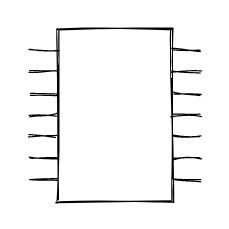
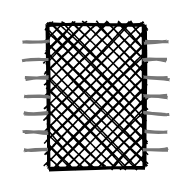
Increase component drawing visibility

diff --git a/public/index.js b/public/index.js
@@ -5,12 +5,14 @@ class IntegratedCircuit extends LitElement {
       connected: { type: Boolean },
       width: { type: Number },
       height: { type: Number },
+      rasterized: { type: Boolean },
     }
   }
   constructor() {
     super();
     this.connected = false;
     this.width = this.height = 192;
+    this.rasterized = false;
   }
   async request() {
     return new Port(await navigator.usb.requestDevice({ filters: [
@@ -76,23 +78,35 @@ class IntegratedCircuit extends LitElement {
     }
   }
   firstUpdated() {
-    this.drawComponent(this.shadowRoot.getElementById('svg'), this.width, this.height);
+    this.drawComponent(this.shadowRoot.getElementById('component'), this.width, this.height);
   }
-  drawComponent(svg, w, h) {
-    [...svg.children].map(child => child.remove());
-    let rs = rough.svg(svg);
-    console.log(rs);
-    svg.appendChild(rs.rectangle(w/4, h/8, w/2, 6*h/8));
+  drawComponent(component, w, h) {
+    let rs = rough[this.rasterized ? 'canvas' : 'svg'](component, { options: {
+      strokeWidth: 3,
+      roughness: 1,
+    }});
+    let parts = [];
+    if (this.rasterized) {
+      component.getContext('2d').clearRect(0, 0, w, h);
+    } else {
+      [...component.children].map(child => child.remove());   
+    }
+    parts.push(rs.rectangle(w/4, h/8, w/2, 6*h/8, {
+      fill: 'black',
+      fillStyle: 'cross-hatch',
+      hachureGap: 8,
+      hachureAngle: 45,
+    }));
     for (let i = 0; i < 7; i++) {
       let y = h/8 + (i+1)*3*w/(4*8);
-      svg.appendChild(rs.line(w/8, y, w/4, y)); // x1, y1, x2, y2
-      svg.appendChild(rs.line(3*h/4, y, 7*h/8, y)); // x1, y1, x2, y2  
-
+      parts.push(rs.line(w/8, y, w/4, y, { stroke: '#777' })); // x1, y1, x2, y2
+      parts.push(rs.line(3*h/4, y, 7*h/8, y, { stroke: '#777' })); // x1, y1, x2, y2  
     }
+    this.rasterized || parts.map(part => component.appendChild(part))  
   }
   static get styles() {
     return css`
-      svg {
+      #component {
         display: block;
         margin: auto;
       }
@@ -103,7 +117,11 @@ class IntegratedCircuit extends LitElement {
       <wired-button @click=${this.test}>Test</wired-button>
       <wired-button @click=${this.toggle}>${this.connected ? "Disconnect" : "Connect"}</wired-button>
       <p>Component</p>
-      <svg width=${this.width} height=${this.height} id="svg"></svg>
+      ${this.rasterized ? 
+        html`<canvas width=${this.width} height=${this.height} id="component"></canvas>` :
+        html`<svg width=${this.width} height=${this.height} id="component"></svg>`
+      }
+      
     `;
   }
 }

diff --git a/public/index.html b/public/index.html
@@ -16,9 +16,10 @@
   <body>
     <h1>Plug in a Nand Gate to Test</h1>
     <integrated-circuit
+      rasterized
       code="4011"
-      height="192"
-      width="192"
+      height="512"
+      width="512"
       href="//jaycar.com.au/4011-quad-2-in-nand-gate-cmos-ic/p/ZC4011">
     </integrated-circuit>
     <script>'serviceWorker' in navigator && window.addEventListener('load', () => navigator.serviceWorker.register('./service-worker.js'));</script>
